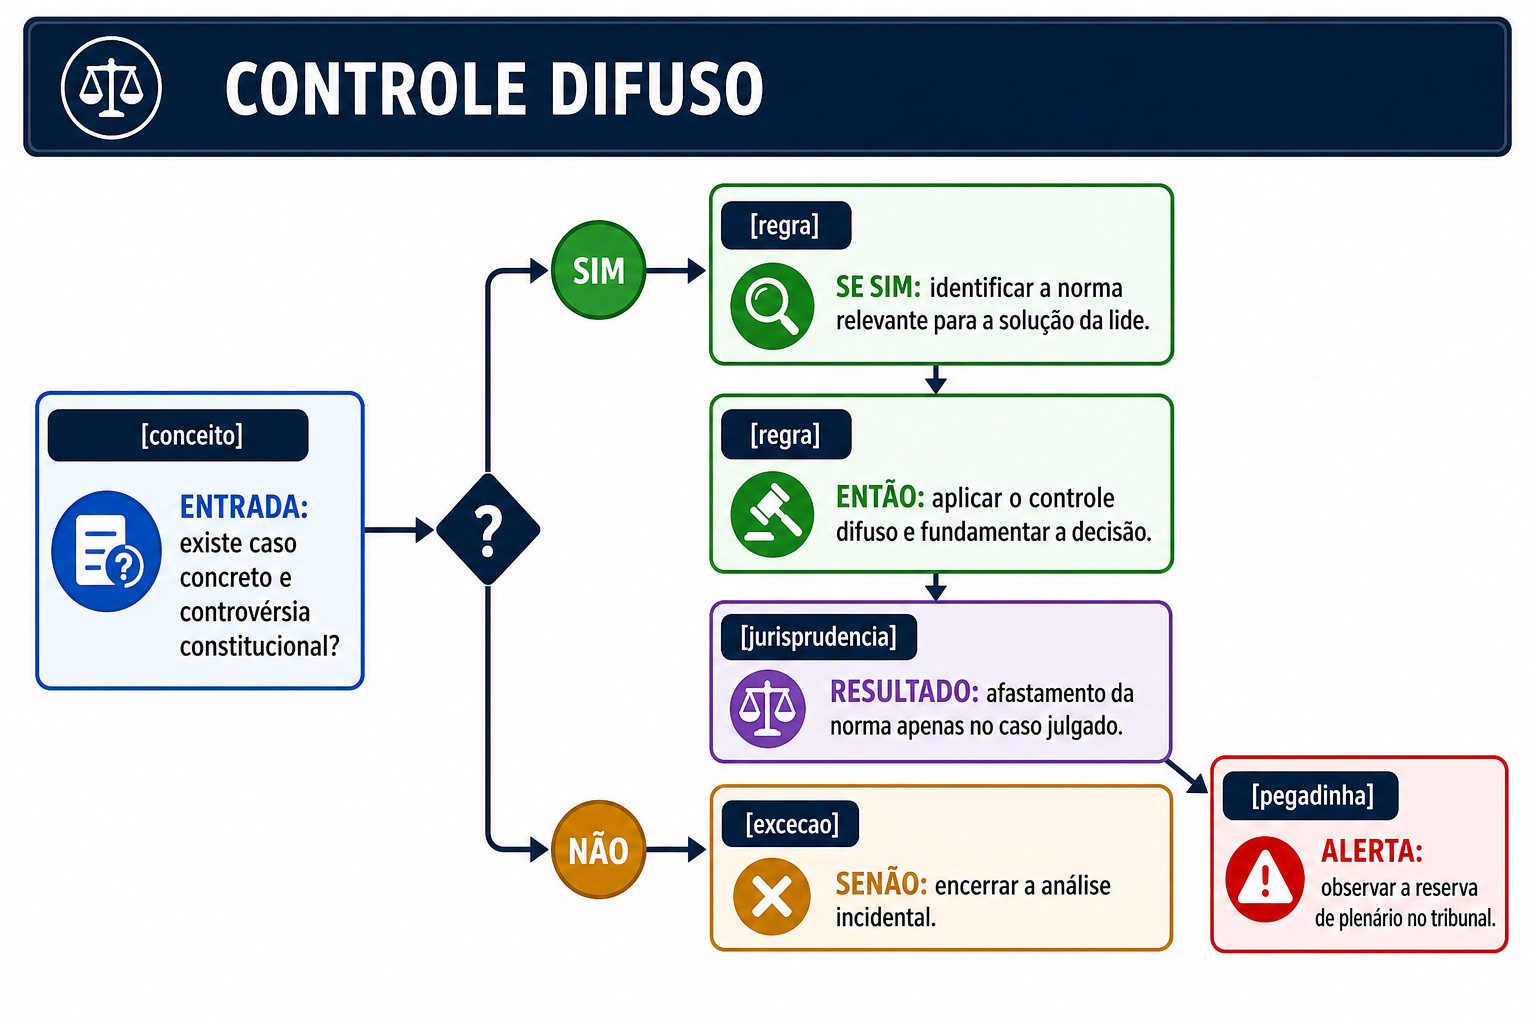
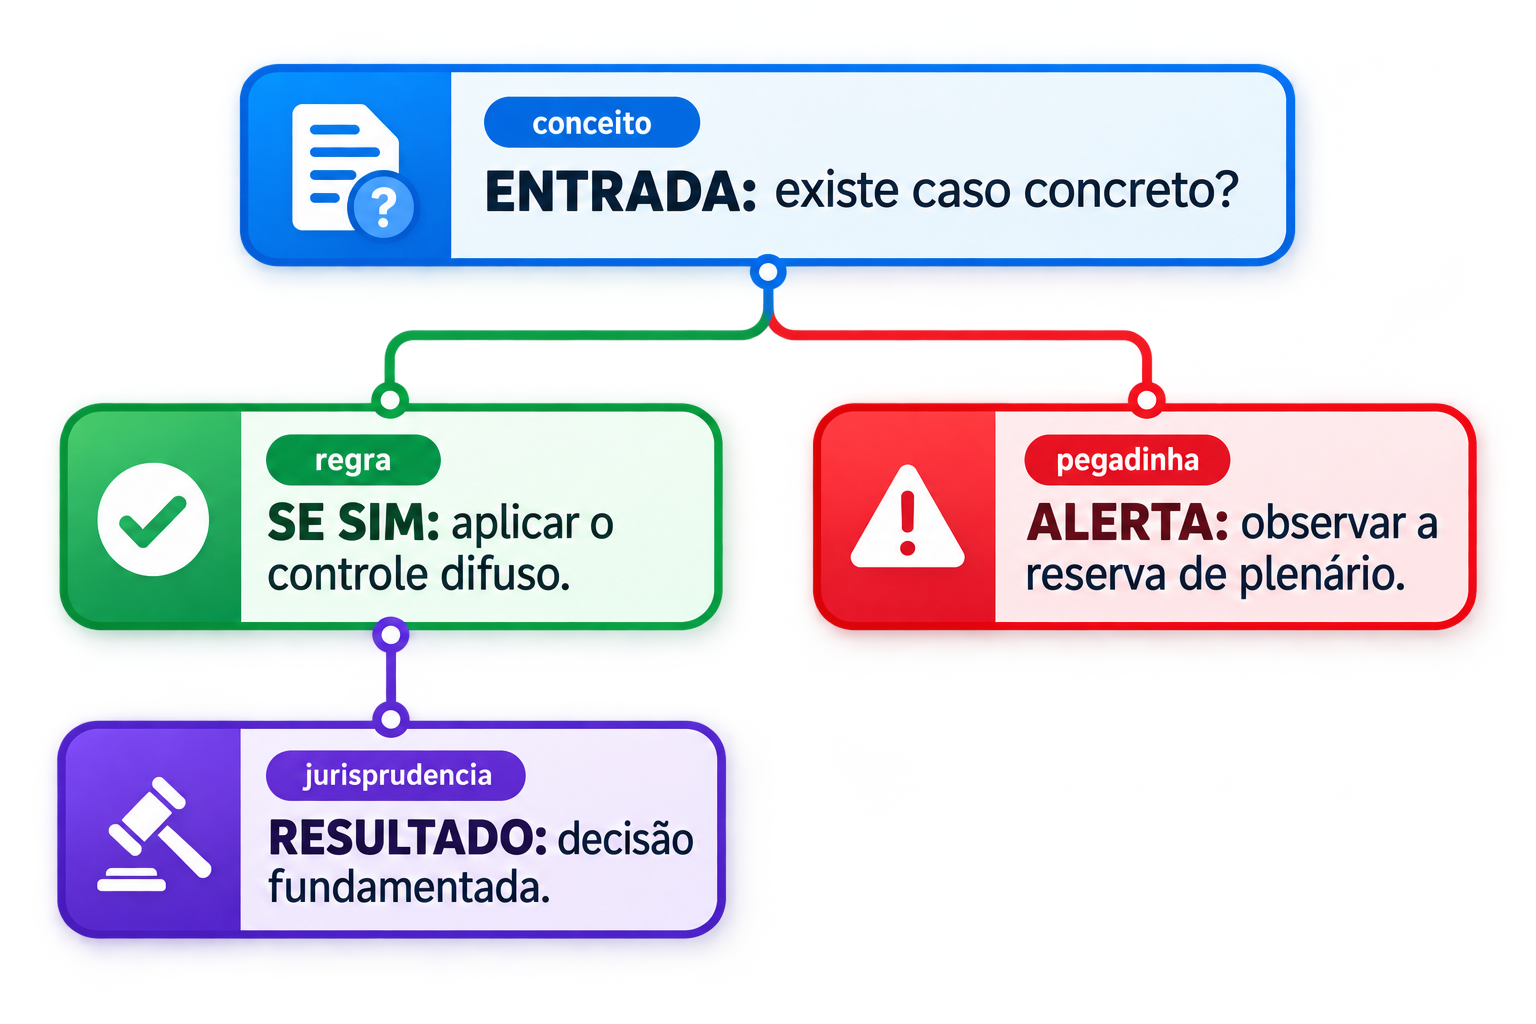
docs: refresh native visual map preview

diff --git a/references/trilha-e-apostila.md b/references/trilha-e-apostila.md
@@ -152,7 +152,7 @@ Para cada tópico recém-concluído:
 6. Não usar fallback CLI, não solicitar `OPENAI_API_KEY` e não chamar serviço externo.
 7. Se a ferramenta nativa estiver indisponível ou a segunda imagem continuar incorreta, não salvar a imagem e executar o build com fallback determinístico.
 
-O utilitário retorna um `expected_path` relativo, como `assets/mapas/<topico-normalizado>-<hash-curto>/<source_hash>.png`. O `source_hash` inclui o tópico, a versão visual, a proporção 3:2 e o mapa textual agregado das sessões concluídas: mesma fonte reutiliza cache; alteração do conteúdo cria novo arquivo sem apagar caches anteriores.
+O utilitário retorna um `expected_path` relativo, como `assets/mapas/<topico-normalizado>-<hash-curto>/<source_hash>.png`. O `source_hash` inclui o tópico, a versão visual, a proporção 3:2 e o mapa textual agregado das sessões concluídas: mesma fonte reutiliza cache; alteração do conteúdo cria novo arquivo sem apagar caches anteriores. A versão `dashboard-modern-v2` cria uma chave nova sem remover a v1. O título atual do tópico é renderizado fora dos pixels pelo HTML/PDF e não entra no prompt nem no hash, portanto renomeá-lo não gera imagem nova.
 
 Preservar os marcadores algorítmicos no mapa textual para orientar a imagem e o fallback: `ENTRADA`, `SE`, `ENTÃO`, `SENÃO`, `RESULTADO` e `ALERTA`. O HTML autocontido incorpora PNG aprovado em Base64, mantém alternativa textual verificável e oferece ampliação; o PDF usa os mesmos bytes, preserva o algoritmo pesquisável e aplica o fluxo textual quando não houver imagem válida.
 

diff --git a/README.md b/README.md
@@ -46,7 +46,7 @@ tópico concluído → prepare_visual_map.py → ready: reutilizar cache
                                                                   └→ indisponível ou segunda falha: fallback textual
 ```
 
-O cache fica em `assets/mapas/<topico>-<hash>/<source_hash>.png`. Alterar o mapa textual cria uma nova chave de conteúdo e preserva os arquivos antigos. O HTML incorpora imagens válidas em Base64; o PDF usa os mesmos bytes. Em ausência ou invalidez, ambos mantêm o fluxograma textual determinístico.
+O cache fica em `assets/mapas/<topico>-<hash>/<source_hash>.png`. A versão visual atual (`dashboard-modern-v2`) invalida apenas a chave de cache anterior, sem apagar PNGs antigos; alterar o mapa textual também cria uma nova chave. O título atual do tópico fica fora dos pixels e é renderizado pelo HTML/PDF, por isso renomeá-lo não provoca nova imagem. O HTML incorpora imagens válidas em Base64; o PDF usa os mesmos bytes. Em ausência ou invalidez, ambos mantêm o fluxograma textual determinístico.
 
 ## Instalação
 
